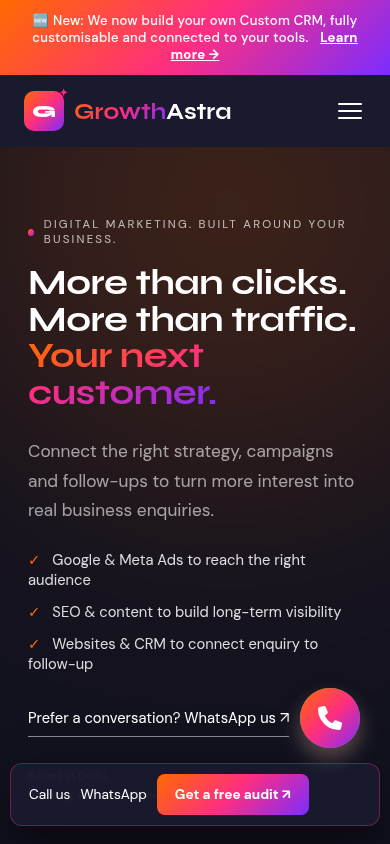
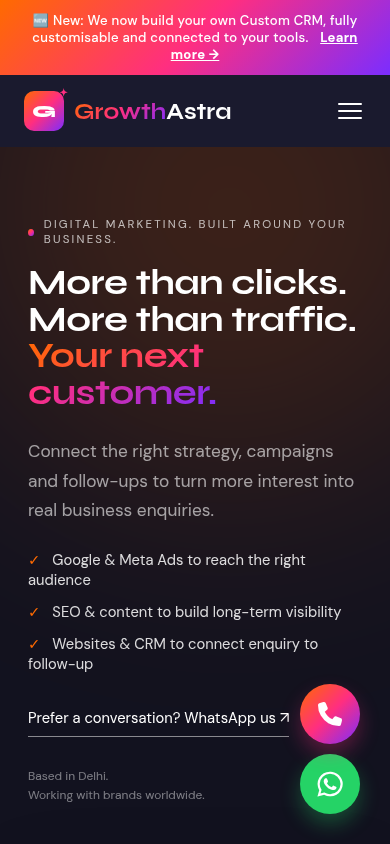
mobile sbar

Changed region(s): [[0.0615, 0.8009, 0.9231, 0.9858]]

diff --git a/home-preview/index.html b/home-preview/index.html
@@ -377,7 +377,7 @@ footer .ft{display:flex;justify-content:space-between;gap:40px;flex-wrap:wrap;pa
 @media(max-width:600px){#v2 .bg4{grid-template-columns:1fr}#v2 .f2{grid-template-columns:1fr}#v2 .sbar{width:calc(100% - 20px);gap:10px}#v2 .sbar .t{display:none}#v2 .id{padding:26px}#v2 section.s{padding:70px 0}#v2 .plat .logos{gap:22px;font-size:1rem}#v2 .logo span.txt{font-size:1.1rem}}
 #v2 .hero{padding-top:150px}
 #v2 .sbar{z-index:900}
-@media(max-width:600px){a[class*="float"],div[class*="float-"]:not(.float-card){bottom:96px!important}}
+@media(max-width:600px){#v2 .sbar{display:none!important}}
 
 </style>
 <script>
